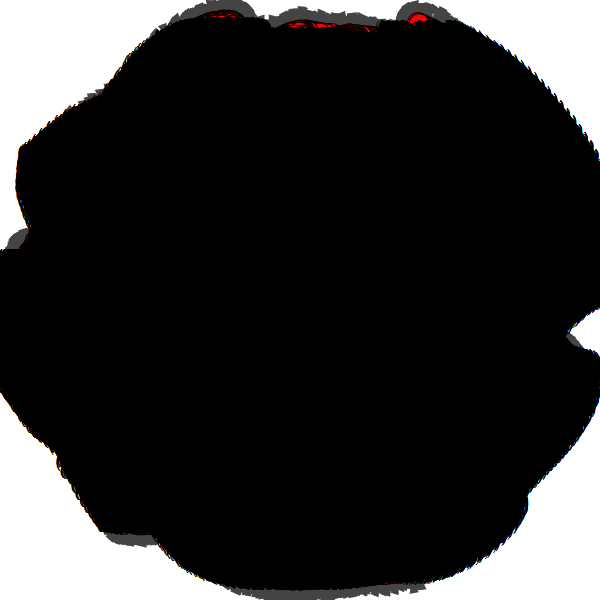
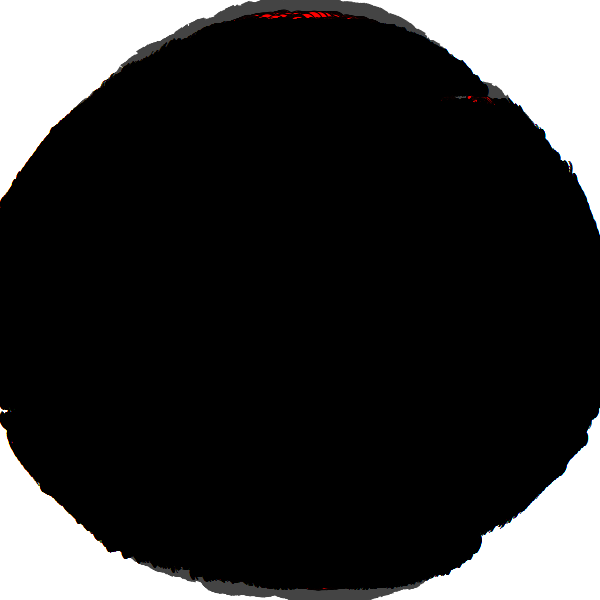
Day 17 works, but takes like 30minutes to run.

diff --git a/Day17/day17.py b/Day17/day17.py
@@ -197,11 +197,13 @@ def dijkstra4(grid, start):
     vs = g.vs["name"]
 
     ig.plot(g, vertex_label = g.vs["name"], target = './Day17/test.png')
-    ends = ["({}, {}, {})".format(rows-1, cols - 1, i) for i in [3, 4, 5, 9, 10, 11]]
+    endsD = [k for k, (di, dj) in enumerate(displacements) if di > 0 or dj > 0]
+    ends = ["({}, {}, {})".format(rows-1, cols - 1, i) for i in endsD]
     result = g.distances("(0, 0, 2)", ends, weights='weight')
+    print(result)
     paths2 = []
-    # paths = g.get_shortest_paths("(0, 0, 2)", ends, weights='weight')
-    # paths2 = [[vs[v] for v in path] for path in paths]
+    paths = g.get_shortest_paths("(0, 0, 2)", ends, weights='weight')
+    paths2 = [[vs[v] for v in path] for path in paths]
     return result, paths2
 
 def getNeighbors4(grid, node):
@@ -211,22 +213,22 @@ def getNeighbors4(grid, node):
     neighbors = []
     displacements = [(i, 0) for i in range(-10, 11) if i != 0] + [(0, j) for j in range(-10, 11) if j != 0]
     di, dj = displacements[t]
-    if i > 0 and di != -3 and di <= 0:
+    if i > 0 and di != -10 and (di < 0 or dj >= 4 or dj <= -4):
         if di < 0:
             neighbors.append(((i - 1, j), (di - 1, 0)))
         else:
             neighbors.append(((i - 1, j), (-1, 0)))
-    if i < rows - 1 and di != 3 and di >= 0:
+    if i < rows - 1 and di != 10 and (di > 0 or dj >= 4 or dj <= -4):
         if di > 0:
             neighbors.append(((i + 1, j), (di + 1, 0)))
         else:
             neighbors.append(((i + 1, j), (1, 0)))
-    if j > 0 and dj != -3 and dj <= 0:
+    if j > 0 and dj != -10 and (dj < 0 or di >= 4 or di <= -4):
         if dj < 0:
             neighbors.append(((i, j - 1), (0, dj - 1)))
         else:
             neighbors.append(((i, j - 1), (0, -1)))
-    if j < cols - 1 and dj != 3 and dj >= 0:
+    if j < cols - 1 and dj != 10 and (dj > 0 or di >= 4 or di <= -4):
         if dj > 0:
             neighbors.append(((i, j + 1), (0, dj + 1)))
         else:
@@ -284,6 +286,17 @@ def main():
     # for p in paths[2]:
     #     v = eval(p)
     #     print(v[0], v[1], toDisplacement(v[2]))
-    dijkstra4(grid, (0, 0, 2))
+    # i, j, di, dj = 4, 10, 4, 0
+    # displacements = [(i, 0) for i in range(-10, 11) if i != 0] + [(0, j) for j in range(-10, 11) if j != 0]
+    # node = (i, j, displacements.index((di, dj)))
+    # ns = getNeighbors4(grid, node)
+    # for n in ns:
+    #     print(n[0], n[1], displacements[n[2]])
+    results, paths = dijkstra4(grid, (0, 0, 2))
+    print(results)
+    # for i, p in enumerate(paths):
+    #     print(i, results[0][i])
+    #     drawPath2(grid, p)
+    print(results)
 
 main()
